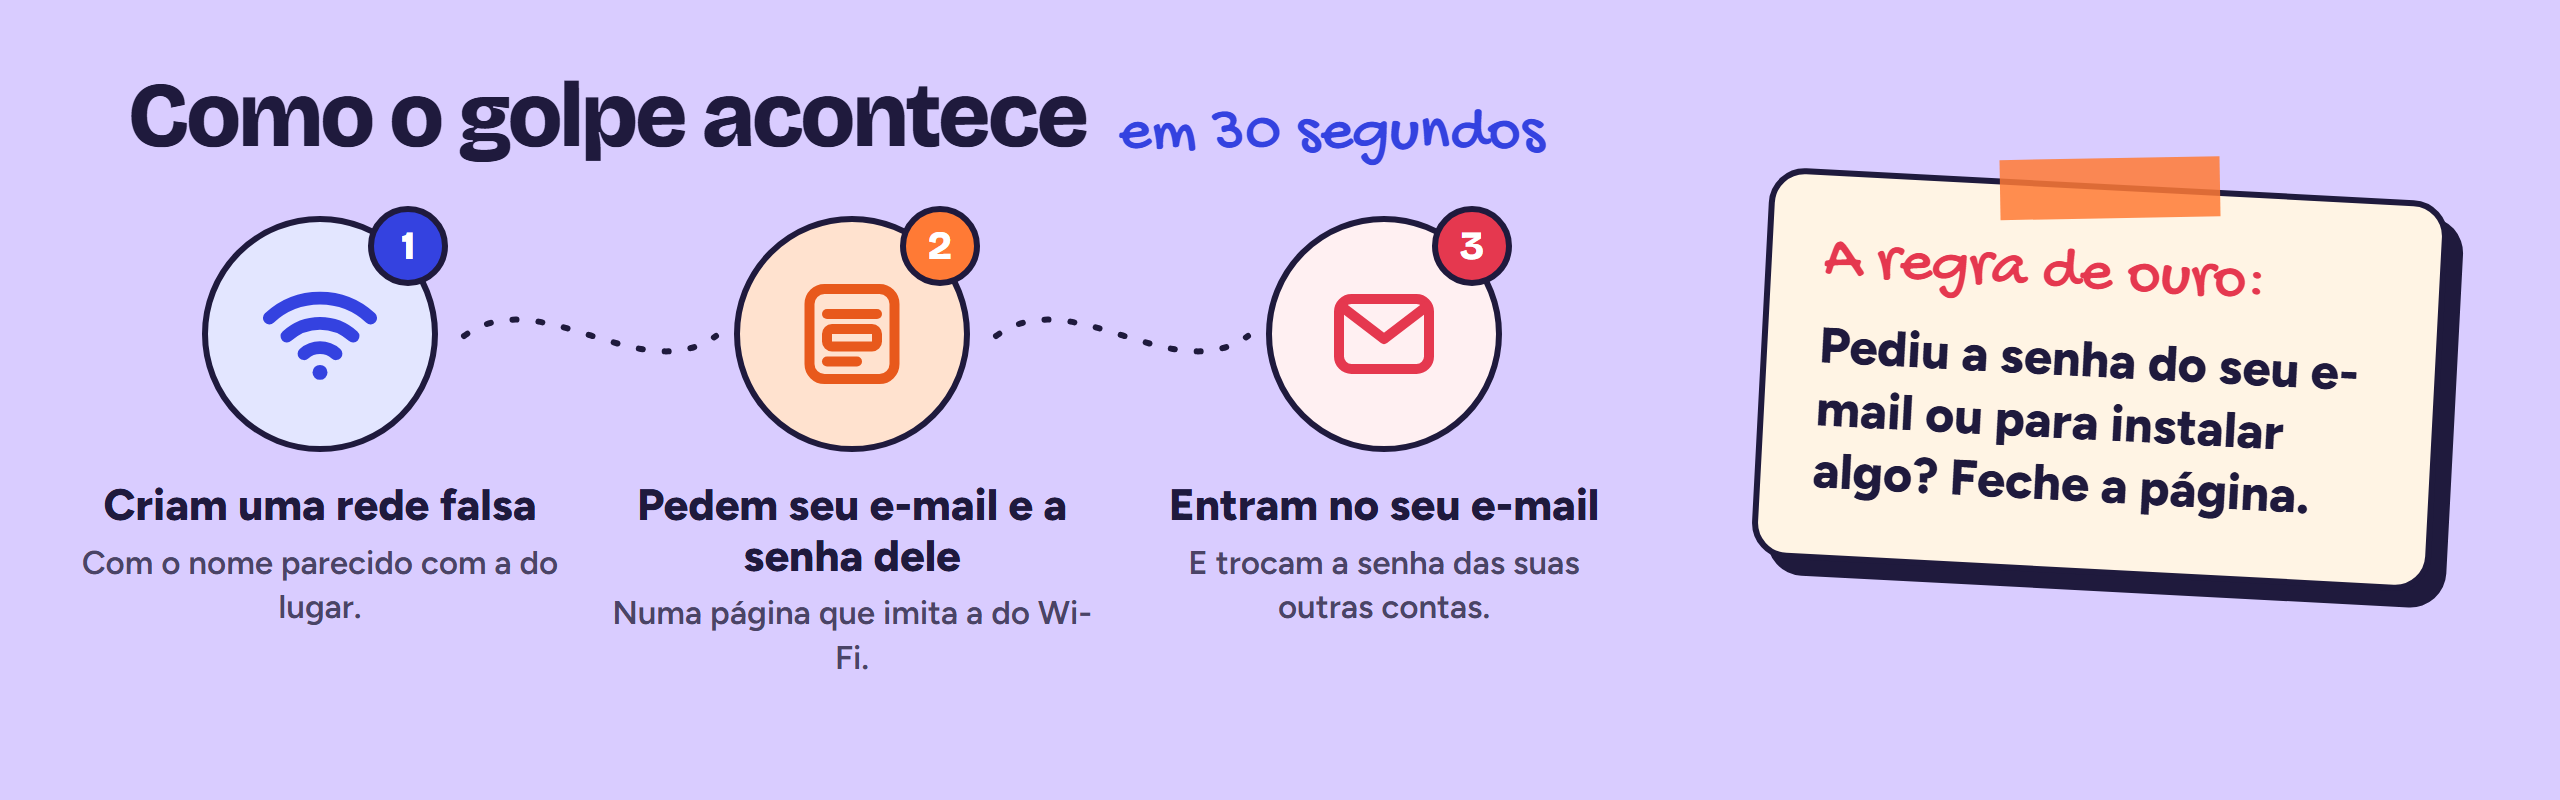
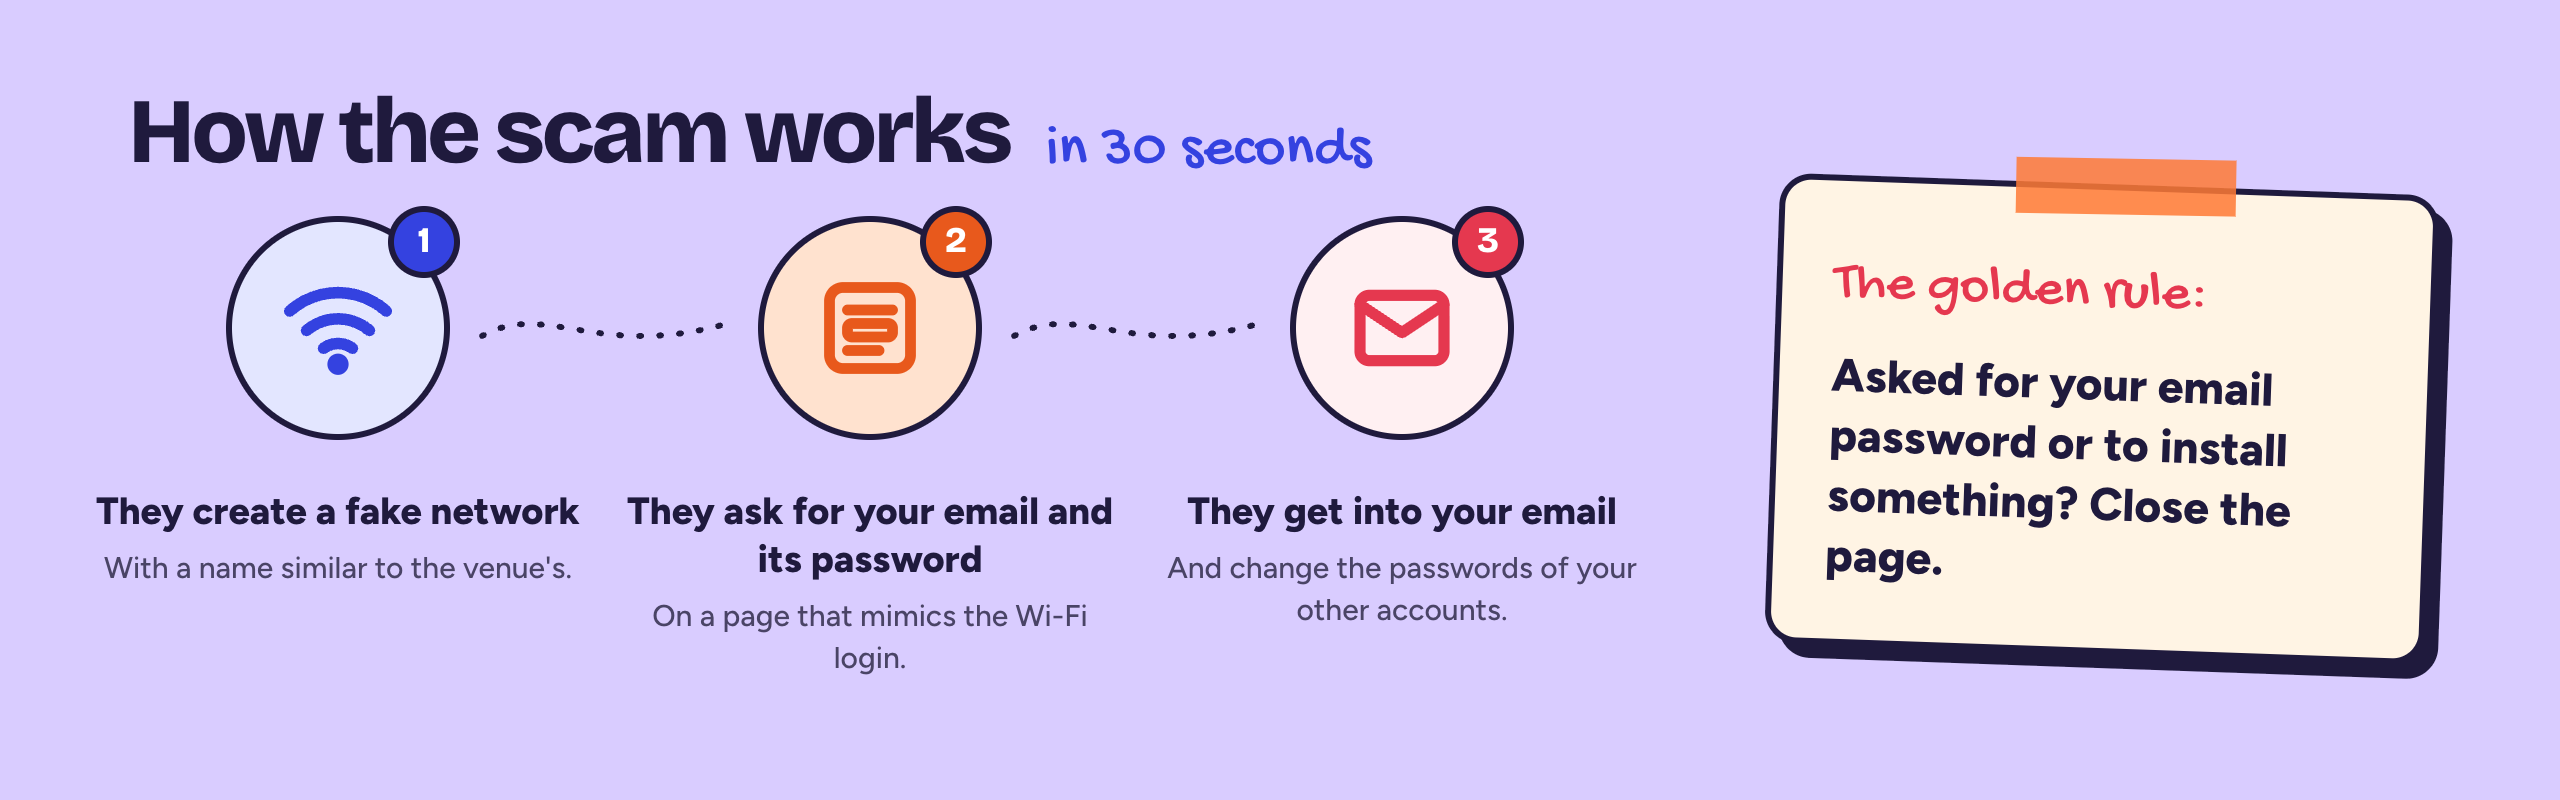
docs(readme): translate readme images to english and drop language note

diff --git a/README.md b/README.md
@@ -15,8 +15,6 @@
   <img src="https://img.shields.io/badge/data%20collected-none-E5384F?labelColor=555" alt="Data collected: none">
 </p>
 
-> The website and the flyer are in Brazilian Portuguese, since they were made for a Brazilian audience.
-
 ## The scam
 
 <img src="docs/golpe.png" alt="How the scam works: 1, they create a fake network with a name similar to the venue's. 2, they ask for your email and its password on a page that mimics the Wi-Fi login. 3, they get into your email and change the passwords of your other accounts. Golden rule: asked for your email password or to install something? Close the page." width="100%">
